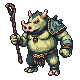
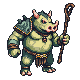
stage: 光の粒の照明を控えめに（点光源3割・弱く）・右向きだった敵4体を反転してリーダーと向かい合わせる
Claude-Session: https://claude.ai/code/session_01KghSQSqnUjvD7w5d1ktinx

diff --git a/unity/Assets/Game/Stage.cs b/unity/Assets/Game/Stage.cs
@@ -152,7 +152,7 @@ namespace DeckRogue.Game
             var lgo = new GameObject("Lantern");
             _lantern = lgo.AddComponent<Light>();
             _lantern.type = LightType.Point;
-            _lantern.range = 8.5f;
+            _lantern.range = 7.0f;
             _lantern.shadows = LightShadows.None;
             _lampPos = OnPath(-7.1f, 2.2f) + new Vector3(0f, 1.2f, 0f);   // 光の粒の群れの中心 (街灯は撤去。世界観「あかりは装置でなく月から零れた光の粒」2026-09-08)
             lgo.transform.position = _lampPos;
@@ -667,7 +667,7 @@ namespace DeckRogue.Game
                 p.Ambient = new Color(0.28f, 0.33f, 0.56f); p.Sun = new Color(0.72f, 0.8f, 1f); p.Lantern = new Color(1f, 0.72f, 0.4f);
                 p.Filter = new Color(0.86f, 0.92f, 1.12f); p.UnitAmbient = new Color(0.58f, 0.65f, 0.94f);   // 環境光は青く暗め = 街灯の暖色が読める
             }
-            p.LampOnUnits = 1.25f; p.LampIntensity = 5.5f; p.SunIntensity = 1.6f;   // 月明かりは強め (2026-09-08「月明かりももっと強くして」。旧 0.8)   // 補間の強さ (1 で街灯の色そのもの)
+            p.LampOnUnits = 1.0f; p.LampIntensity = 3.6f; p.SunIntensity = 1.6f;   // 月明かりは強め (2026-09-08「月明かりももっと強くして」。旧 0.8)   // 補間の強さ (1 で街灯の色そのもの)
             return p;
         }
 
@@ -914,11 +914,11 @@ namespace DeckRogue.Game
 
             // 光の粒の足元: 群れの下に暖色の光溜まり (粒そのものは StageFx の Motes)。装置 (街灯) は置かない
             var lampBase = new Vector3(_lampPos.x, 0f, _lampPos.z);
-            var pool = Glow("mote-pool", Px.Radial(new Color(1f, 0.78f, 0.46f, 0.5f)), lampBase, 1f, 1f);
+            var pool = Glow("mote-pool", Px.Radial(new Color(1f, 0.78f, 0.46f, 0.3f)), lampBase, 1f, 1f);
             pool.GetComponent<MeshFilter>().sharedMesh = _quadCentered;
             pool.transform.rotation = Quaternion.Euler(90f, 0f, 0f);
             pool.transform.position = lampBase + new Vector3(0f, 0.035f, 0f);
-            pool.transform.localScale = new Vector3(7.2f, 6.2f, 1f);
+            pool.transform.localScale = new Vector3(6.0f, 5.2f, 1f);
 
             // 空 (遠い板) と月、地平線の木立
             var skyTex = Theme.Art("bg", "act" + act);
@@ -2018,18 +2018,18 @@ namespace DeckRogue.Game
             var go = new GameObject("mote-light-template");
             go.transform.SetParent(_fx, false);
             var l = go.AddComponent<Light>();
-            l.type = LightType.Point; l.range = 1.4f; l.intensity = 1.2f; l.color = new Color(1f, 0.82f, 0.5f); l.shadows = LightShadows.None;
+            l.type = LightType.Point; l.range = 1.1f; l.intensity = 0.55f; l.color = new Color(1f, 0.82f, 0.5f); l.shadows = LightShadows.None;
             go.SetActive(false);
             _moteLightTpl = l;
             return l;
         }
 
-        static void MoteLights(ParticleSystem ps, int max)
+        static void MoteLights(ParticleSystem ps, int max, float ratio)
         {
             var lights = ps.lights;
             lights.enabled = true;
             lights.light = MoteLightTemplate();
-            lights.ratio = 1f;                      // 一粒ずつが照明
+            lights.ratio = ratio;                   // 照明になる粒の割合 (全部だと足元が光溜まりだらけになる)
             lights.maxLights = max;
             lights.useParticleColor = false;
             lights.sizeAffectsRange = false;
@@ -2146,10 +2146,10 @@ namespace DeckRogue.Game
             var main = ps.main;
             main.startLifetime = new ParticleSystem.MinMaxCurve(6f, 11f);
             main.startSpeed = 0f;
-            main.startSize = new ParticleSystem.MinMaxCurve(0.14f, 0.24f);
-            main.startColor = new Color(2.0f, 1.6f, 0.75f, 1f);
-            main.maxParticles = 70;
-            var em = ps.emission; em.rateOverTime = 8f;
+            main.startSize = new ParticleSystem.MinMaxCurve(0.1f, 0.18f);
+            main.startColor = new Color(1.6f, 1.3f, 0.65f, 1f);
+            main.maxParticles = 50;
+            var em = ps.emission; em.rateOverTime = 6f;
             var shape = ps.shape; shape.shapeType = ParticleSystemShapeType.Box; shape.scale = new Vector3(34f, 1.4f, 3.2f);
             shape.rotation = new Vector3(0f, PathYaw, 0f); shape.position = new Vector3(0f, 0.9f, 0f);
             var vel = ps.velocityOverLifetime; vel.enabled = true; vel.space = ParticleSystemSimulationSpace.World;
@@ -2161,7 +2161,7 @@ namespace DeckRogue.Game
             g.SetKeys(new[] { new GradientColorKey(Color.white, 0f), new GradientColorKey(Color.white, 1f) },
                       new[] { new GradientAlphaKey(0f, 0f), new GradientAlphaKey(1f, 0.12f), new GradientAlphaKey(0.85f, 0.5f), new GradientAlphaKey(1f, 0.85f), new GradientAlphaKey(0f, 1f) });   // 途中で消えない = 全部の粒が光っている
             col.color = g;
-            MoteLights(ps, 48);
+            MoteLights(ps, 14, 0.3f);
             ps.Play();
 
             var c = NewSystem("motes-cluster", GlowDotTex());
@@ -2177,7 +2177,7 @@ namespace DeckRogue.Game
             vel = c.velocityOverLifetime; vel.enabled = true; vel.space = ParticleSystemSimulationSpace.World;
             vel.y = new ParticleSystem.MinMaxCurve(-0.05f, 0.1f);
             col = c.colorOverLifetime; col.enabled = true; col.color = g;
-            MoteLights(c, 18);
+            MoteLights(c, 4, 0.35f);
             c.Play();
         }
 

diff --git a/docs/unity-port.md b/docs/unity-port.md
@@ -366,3 +366,5 @@ battle1=8-Bit Battle Loop／battle2-3=Juhani Junkala Chiptune Adventures Stage 1
   ぼかし始めを「一番奥の座席（敵4体時 t=11.2）＋4」に固定＝キャラは全員ピントの中、ぼけるのは遠景だけ。色収差 0.08→0.03・グレイン 0.12（ドットの縁を守る）。
   **蛍**を追加（`Fireflies` を作り直し）: 黄緑（1.2,2.2,0.6 の HDR）・寿命の中で4回瞬く（alpha と大きさの曲線）・ノイズでふわりと漂う・空き地の奥〜川辺〜森の縁の箱。
   道を照らす光の粒（金・道に沿って流れる・粒ごとの点光源）とは色と動きで区別し、蛍は照明にしない（光のルール: 暖色は灯の範囲だけ、蛍は生き物の光）。
+- 追補（同日「光源がうっとうしい」「右を向いている敵がいる」）: 粒の点光源を「道の粒の3割・最大14個、群れは4個」に減らし、範囲1.1・強さ0.55、足元の光溜まりと点光源も弱めた（LampIntensity 5.5→3.6、板の補間 1.25→1.0）。
+  敵の向き: 目の位置の機械判定は当てにならず（輪郭の黒を拾う）、シートを目で見て右向きの4体（大喰らいの蟲・巻きつく大蛇・針毛の栗鼠・鬼軍曹）を左右反転。規約: 敵は左（リーダーの方）を向く。
